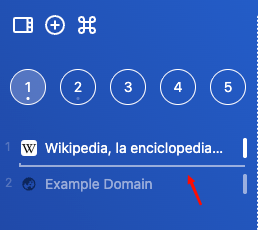
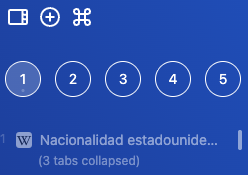
fix(sidebar): show a text link when child tabs are collapsed (#577)
Collapsing the child tabs of a container left only a horizontal line
in the sidebar, which was easy to miss and gave no hint of how many
tabs were hidden. The bracket introduced in ab6cfdb only reads as a
shape around visible children, so it has nothing to draw when they
are hidden.

Restore the text link that the bracket replaced. It shows how many
tabs are collapsed and expands them on click, aligned under the
parent tab title. The bracket is now only drawn while the children
are expanded, where it collapses them back, so the two states have
one control each and the stray line is gone.

diff --git a/src/renderer/scripts/window/sidebar.tabs.ts b/src/renderer/scripts/window/sidebar.tabs.ts
@@ -19,6 +19,11 @@ export async function renderTabContainers(
     await Promise.all(
       tabContainers.map(async (tc) => {
         const childrenCount = tc.children.filter((t) => !t.isClosed).length;
+        const r = await abI18n.t({ winId }, [
+          { key: 'pages:tabContainers.collapsedTabs', params: { count: childrenCount } },
+        ]);
+
+        const collapsedText = r['pages:tabContainers.collapsedTabs'];
 
         return h(
           'div', // Tab Container
@@ -89,8 +94,9 @@ export async function renderTabContainers(
                       'before:border-b-2',
                       'before:border-transparent',
                       'before:pointer-events-auto',
-                      tc.collapseChildren ? 'left-4 right-2' : 'left-4.5',
+                      'left-4.5',
                       'group-[.collapsed]/sidebar:hidden',
+                      tc.collapseChildren && 'hidden',
                     ),
                     onclick: () => {
                       abCommands.perform(winId, 'toggle-collapse-children', {
@@ -118,6 +124,33 @@ export async function renderTabContainers(
                   ),
                 ),
               ]),
+          ...(tc.collapseChildren
+            ? [
+                h(
+                  'div',
+                  {
+                    class: c(
+                      childrenCount === 0 ? 'hidden' : 'group-[.collapsed]/sidebar:hidden block',
+                      'text-xs',
+                      '-mt-1.5',
+                      'ml-10',
+                      'text-white',
+                      'opacity-40',
+                      'cursor-pointer',
+                      'hover:opacity-100',
+                      'transition-opacity',
+                      'duration-200',
+                    ),
+                    onclick: () => {
+                      abCommands.perform(winId, 'toggle-collapse-children', {
+                        tabContainerId: tc.id,
+                      });
+                    },
+                  },
+                  collapsedText,
+                ),
+              ]
+            : []),
         );
       }),
     ),
